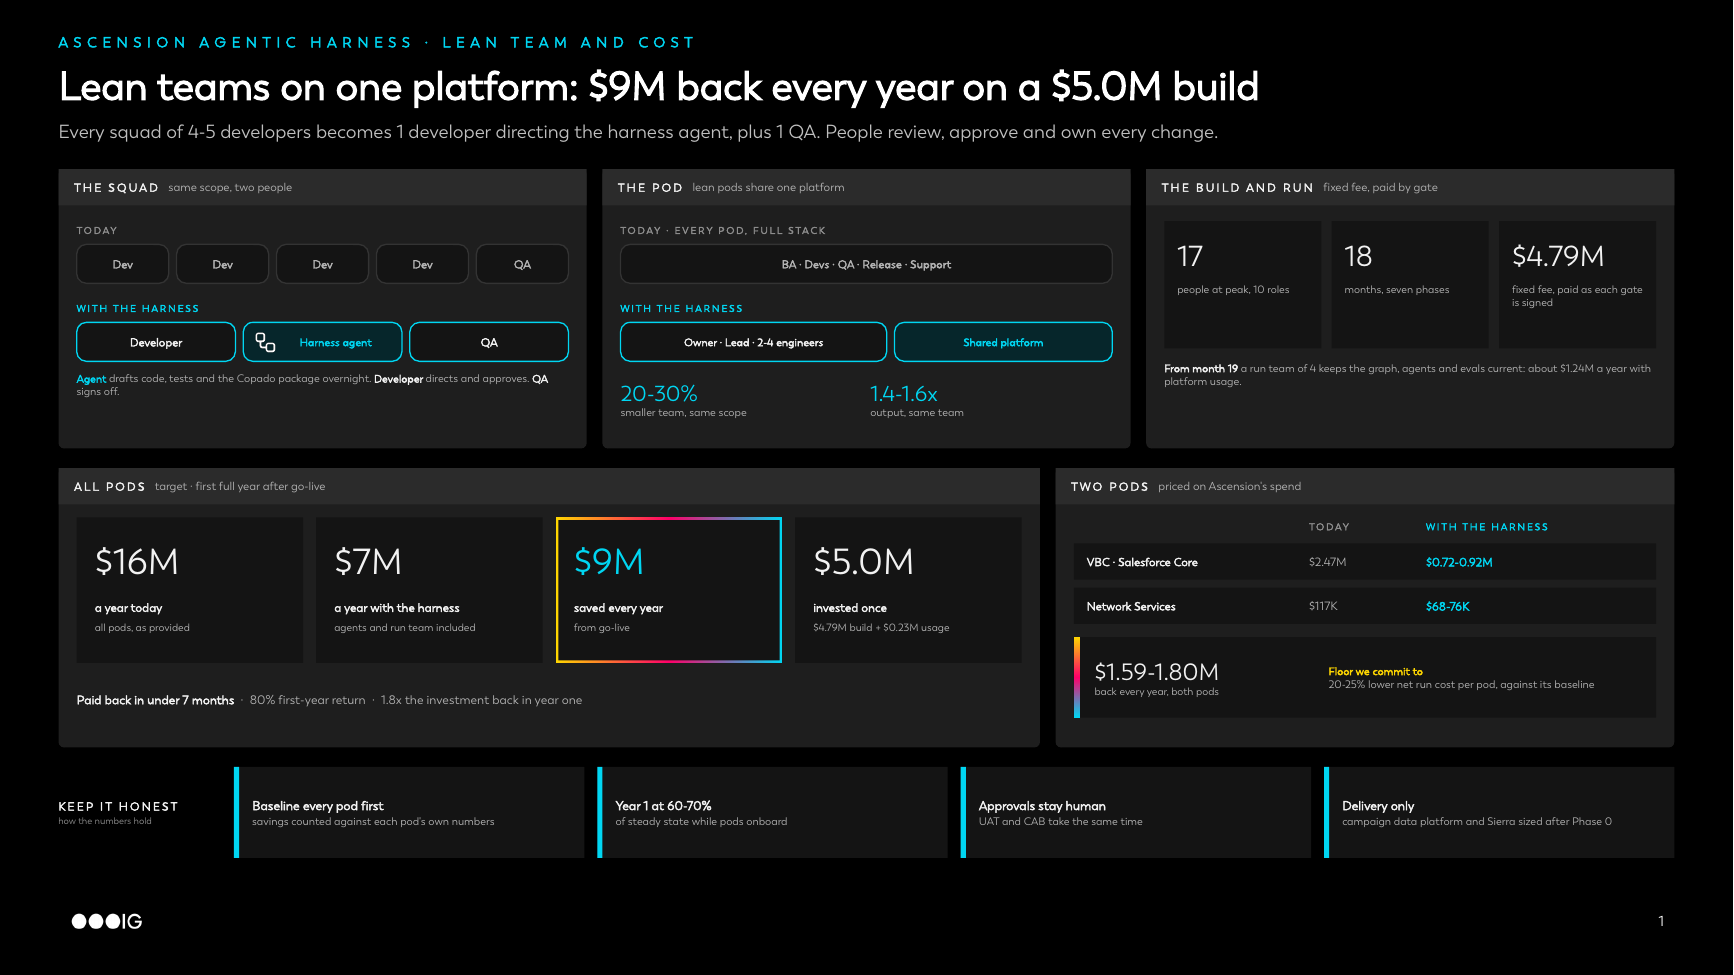
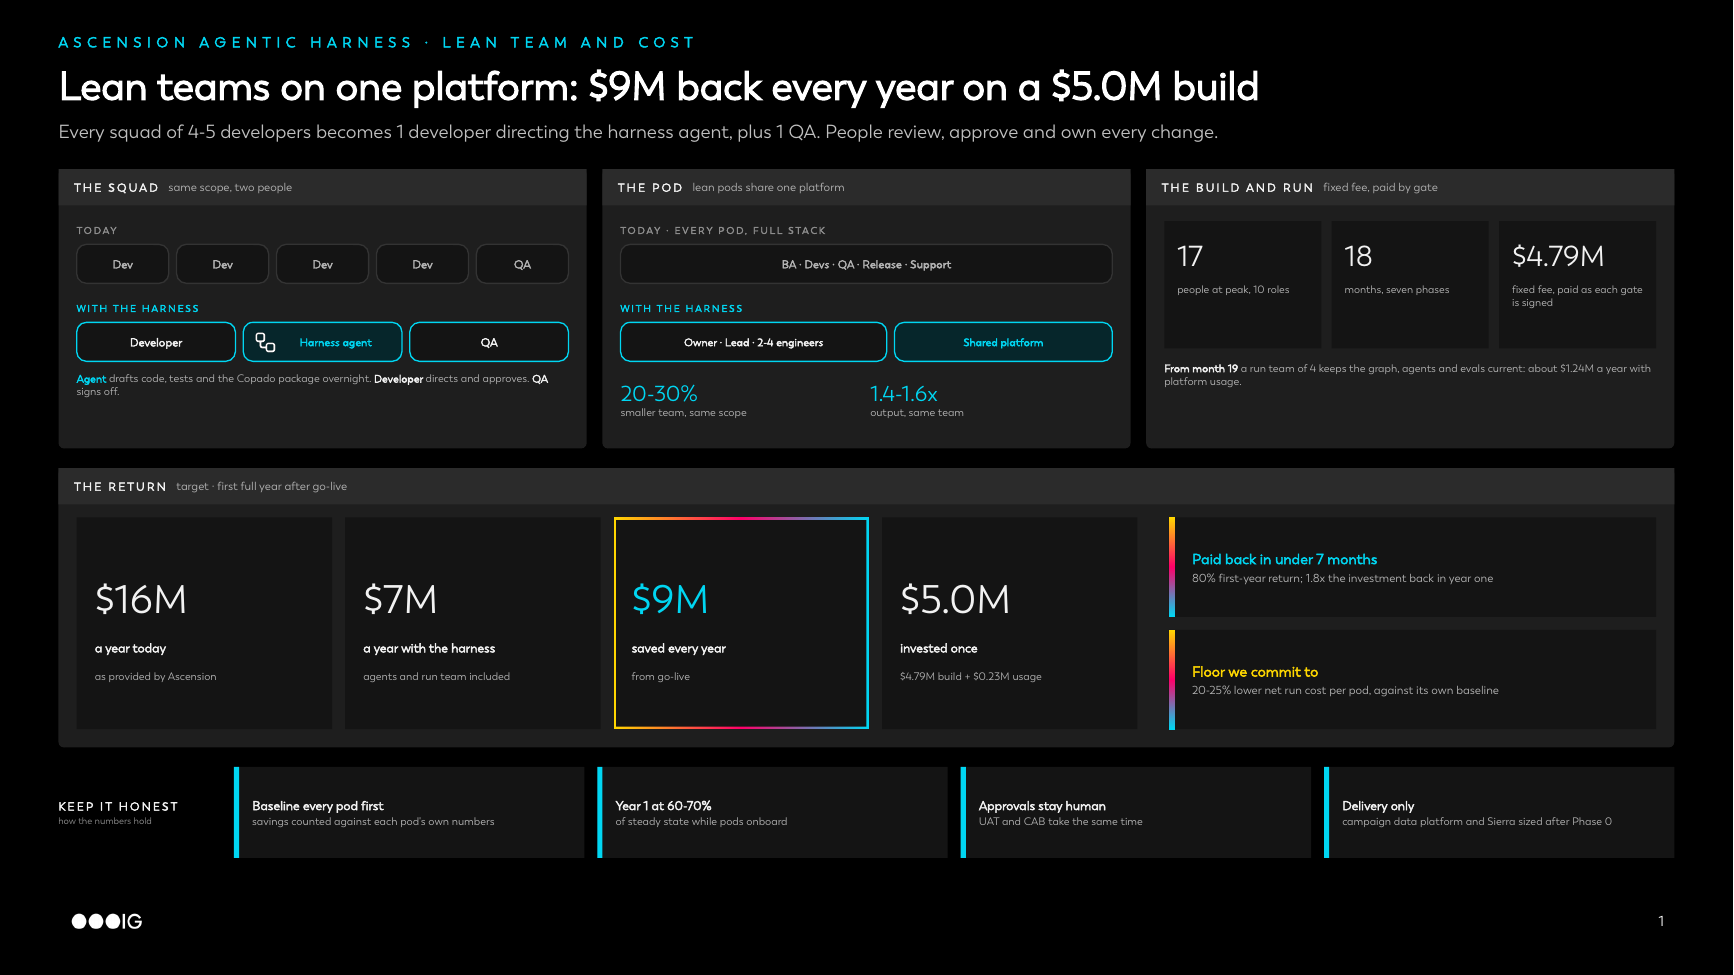
Lean team preview: drop the two-pods panel and the all-pods heading
Claude-Session: https://claude.ai/code/session_01Hf94kqMzSofkkrQm7kpNba

diff --git a/poc/data_harness/lean_team.py b/poc/data_harness/lean_team.py
@@ -1,5 +1,5 @@
 """One-slide preview: lean team and cost saving. Figures are the ones already in the Ascension Agentic Harness deck
-(team and build cost, commercials, ROI, two pods, business outcomes). Black muted IG style. Not part of the deck.
+(team and build cost, commercials, ROI, business outcomes). Black muted IG style. Not part of the deck.
 
     python3 lean_team.py [out.pptx]
 """
@@ -22,14 +22,13 @@ OUT = os.path.join(HERE, "build", "lean_team.pptx")
 NOTES = """SLIDE: Lean team and cost saving   (about 2-3 minutes)
 
 KEY MESSAGE
-Every squad of 4-5 developers becomes 1 developer directing the harness agent, plus 1 QA. Pods run lean on one shared platform. Across all pods, $16M a year today becomes $7M: $9M back every year on a $5.0M build, paid back in under 7 months.
+Every squad of 4-5 developers becomes 1 developer directing the harness agent, plus 1 QA. Pods run lean on one shared platform. $16M a year today becomes $7M: $9M back every year on a $5.0M build, paid back in under 7 months.
 
 WALK IT
 - The squad: 4 developers and a QA today; with the harness, one developer directs the agent, a QA verifies, and the agent drafts code, tests and the Copado package overnight. People review, approve and own every change.
 - The pod: today every pod carries its own full stack. With the harness: owner, lead and 2-4 engineers, on one shared platform run by a small team. 20-30% smaller for the same scope, or 1.4-1.6x the output with the same team.
 - The build: 17 people at peak, 10 roles, 18 months, $4.79M fixed fee paid only when each gate is signed. From month 19 a run team of 4 keeps it running, about $1.24M a year with platform usage.
-- All pods (target, first full year after go-live): $16M today, $7M with the harness, $9M saved every year, on a $5.0M investment. 80% first-year return.
-- Two pods, priced on Ascension's spend: VBC and Network Services, $2.59M a year today, $0.79-0.99M with the harness: $1.59-1.80M back every year.
+- The return (target, first full year after go-live): $16M a year today, $7M with the harness, $9M saved every year, on a $5.0M investment. Paid back in under 7 months; 80% first-year return.
 - Floor we commit to: 20-25% lower net run cost per pod, measured against each pod's baseline.
 
 KEEP IT HONEST
@@ -57,10 +56,11 @@ def stat(cv, x, y, w, h, big, small, note=None, color=T1, hook=False):
         cv.frame(x, y, w, h, CARD, 0.02)
     else:
         cv.rect(x, y, w, h, CARD, None)
-    cv.text(x + 0.14, y + 0.08, w - 0.24, 0.5, big, size=20, color=color, anchor=MSO_ANCHOR.MIDDLE)
-    cv.text(x + 0.14, y + 0.58, w - 0.24, 0.22, small, size=6.6, bold=True, color=T1, anchor=MSO_ANCHOR.MIDDLE)
+    y += max(0.0, (h - 1.05) / 2)                 # centre the figure in a tall tile
+    cv.text(x + 0.14, y + 0.08, w - 0.24, 0.5, big, size=22, color=color, anchor=MSO_ANCHOR.MIDDLE)
+    cv.text(x + 0.14, y + 0.6, w - 0.24, 0.22, small, size=7, bold=True, color=T1, anchor=MSO_ANCHOR.MIDDLE)
     if note:
-        cv.text(x + 0.14, y + 0.8, w - 0.24, h - 0.84, note, size=5.8, color=T2)
+        cv.text(x + 0.14, y + 0.82, w - 0.24, 0.22, note, size=6, color=T2, anchor=MSO_ANCHOR.MIDDLE)
 
 
 def build(prs, layout):
@@ -123,39 +123,27 @@ def build(prs, layout):
     # ---------------------------------------------------------------- row 2: the money
     my = ty + th + 0.15
     mh = 2.15
-    lw = 7.55
-    panel(cv, 0.45, my, lw, mh, "ALL PODS", "target · first full year after go-live")
-    sw = (lw - 0.28 - 3 * 0.1) / 4
-    tiles = [("$16M", "a year today", "all pods, as provided", T1, False),
+    panel(cv, 0.45, my, 12.43, mh, "THE RETURN", "target · first full year after go-live")
+    lw = 8.3
+    sw = (lw - 0.14 - 3 * 0.1) / 4
+    tiles = [("$16M", "a year today", "as provided by Ascension", T1, False),
              ("$7M", "a year with the harness", "agents and run team included", T1, False),
              ("$9M", "saved every year", "from go-live", CYAN, True),
              ("$5.0M", "invested once", "$4.79M build + $0.23M usage", T1, False)]
+    th3 = mh - 0.52
     for k, (b, sm, n, c, hook) in enumerate(tiles):
-        stat(cv, 0.45 + 0.14 + k * (sw + 0.1), my + 0.38, sw, 1.12, b, sm, n, color=c, hook=hook)
-    cv.text(0.59, my + 1.6, lw - 0.28, 0.36, [[("Paid back in under 7 months", {"bold": True, "color": T1}),
-                                                 ("  ·  80% first-year return  ·  1.8x the investment back in year "
-                                                  "one", {"color": T2})]], size=6.8, anchor=MSO_ANCHOR.MIDDLE)
-    rx = 0.45 + lw + 0.12
-    rw = 12.88 - rx
-    panel(cv, rx, my, rw, mh, "TWO PODS", "priced on Ascension's spend")
-    rows = [("VBC · Salesforce Core", "$2.47M", "$0.72-0.92M"), ("Network Services", "$117K", "$68-76K")]
-    label(cv, rx + 1.95, my + 0.36, 0.8, "TODAY")
-    label(cv, rx + 2.85, my + 0.36, 1.4, "WITH THE HARNESS", CYAN)
-    for k, (pod, a, b) in enumerate(rows):
-        y = my + 0.58 + k * 0.34
-        cv.rect(rx + 0.14, y, rw - 0.28, 0.28, CARD, None)
-        cv.text(rx + 0.24, y, 1.7, 0.28, pod, size=6.4, bold=True, color=T1, anchor=MSO_ANCHOR.MIDDLE)
-        cv.text(rx + 1.95, y, 0.85, 0.28, a, size=6.6, color=T2, anchor=MSO_ANCHOR.MIDDLE)
-        cv.text(rx + 2.85, y, 1.4, 0.28, b, size=6.6, bold=True, color=CYAN, anchor=MSO_ANCHOR.MIDDLE)
-    fy = my + 1.3
-    cv.rect(rx + 0.14, fy, rw - 0.28, 0.62, CARD, None)
-    gbar(cv, rx + 0.14, fy, 0.05, 0.62)
-    cv.text(rx + 0.3, fy, 1.75, 0.62, [[("$1.59-1.80M", {"size": 13, "color": T1})],
-                                        [("back every year, both pods", {"color": T2})]], size=5.8,
-            anchor=MSO_ANCHOR.MIDDLE)
-    cv.text(rx + 2.1, fy, rw - 2.32, 0.62, [[("Floor we commit to", {"bold": True, "color": YELLOW})],
-                                             [("20-25% lower net run cost per pod, against its baseline",
-                                               {"color": T2})]], size=6.0, anchor=MSO_ANCHOR.MIDDLE)
+        stat(cv, 0.45 + 0.14 + k * (sw + 0.1), my + 0.38, sw, th3, b, sm, n, color=c, hook=hook)
+    rx = 0.45 + 0.14 + lw + 0.1
+    rw = 12.88 - 0.14 - rx
+    ch = (th3 - 0.1) / 2
+    cards = [("Paid back in under 7 months", "80% first-year return; 1.8x the investment back in year one", CYAN),
+             ("Floor we commit to", "20-25% lower net run cost per pod, against its own baseline", YELLOW)]
+    for k, (t, d, c) in enumerate(cards):
+        y = my + 0.38 + k * (ch + 0.1)
+        cv.rect(rx, y, rw, ch, CARD, None)
+        gbar(cv, rx, y, 0.05, ch)
+        cv.text(rx + 0.18, y, rw - 0.26, ch, [[(t, {"bold": True, "size": 8, "color": c})], [(d, {"color": T2})]],
+                size=6.4, anchor=MSO_ANCHOR.MIDDLE, after=2)
     # ---------------------------------------------------------------- bottom: keep it honest
     by, bh = my + mh + 0.15, 0.7
     cv.text(0.45, by, 1.3, bh, [[("KEEP IT HONEST", {"bold": True, "color": T1, "track": 120})],
